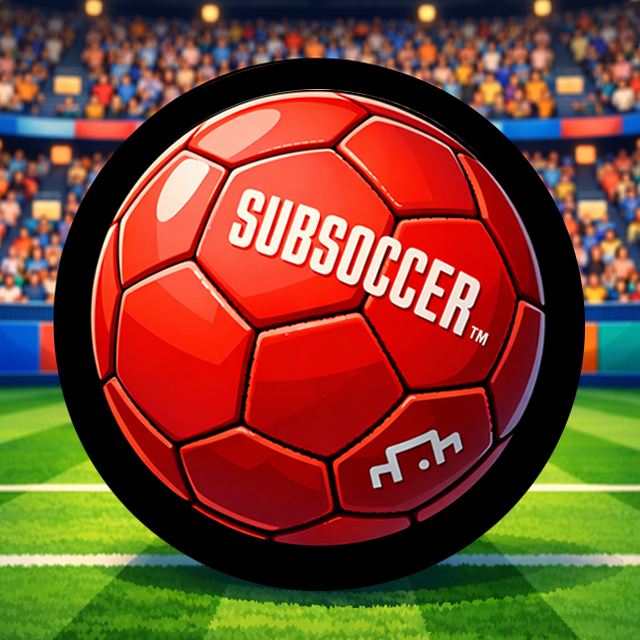
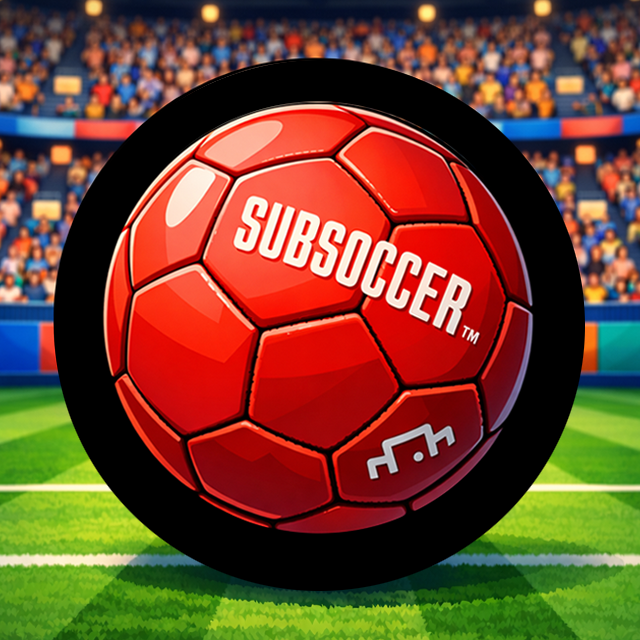
chore(assets): Remove 28% static scaling padding since ball.png has been updated to actual asset dimensions

Changed region(s): [[0.125, 0.125, 0.875, 0.875], [0.2812, 0.5312, 0.3125, 0.5625]]

diff --git a/flick-game.js b/flick-game.js
@@ -101,8 +101,8 @@ window.isPlaying = false;
     const ballImg = new Image();
     const processedBall = document.createElement('canvas');
     ballImg.onload = () => {
-        // The original ball.png has a large white padding. We crop into the actual ball texture.
-        const actualBallSize = ballImg.width * 0.72; 
+        // Use full dimensions of the new ball.png
+        const actualBallSize = ballImg.width; 
         
         processedBall.width = actualBallSize;
         processedBall.height = actualBallSize;
@@ -113,9 +113,8 @@ window.isPlaying = false;
         bCtx.arc(actualBallSize/2, actualBallSize/2, actualBallSize/2 - 1, 0, Math.PI*2);
         bCtx.clip();
         
-        // Draw the source image shifted so the padding is outside the canvas
-        const offset = (ballImg.width - actualBallSize) / 2;
-        bCtx.drawImage(ballImg, -offset, -offset, ballImg.width, ballImg.height);
+        // Draw the full source image
+        bCtx.drawImage(ballImg, 0, 0, ballImg.width, ballImg.height);
         
         ballImg.processed = true;
     };
